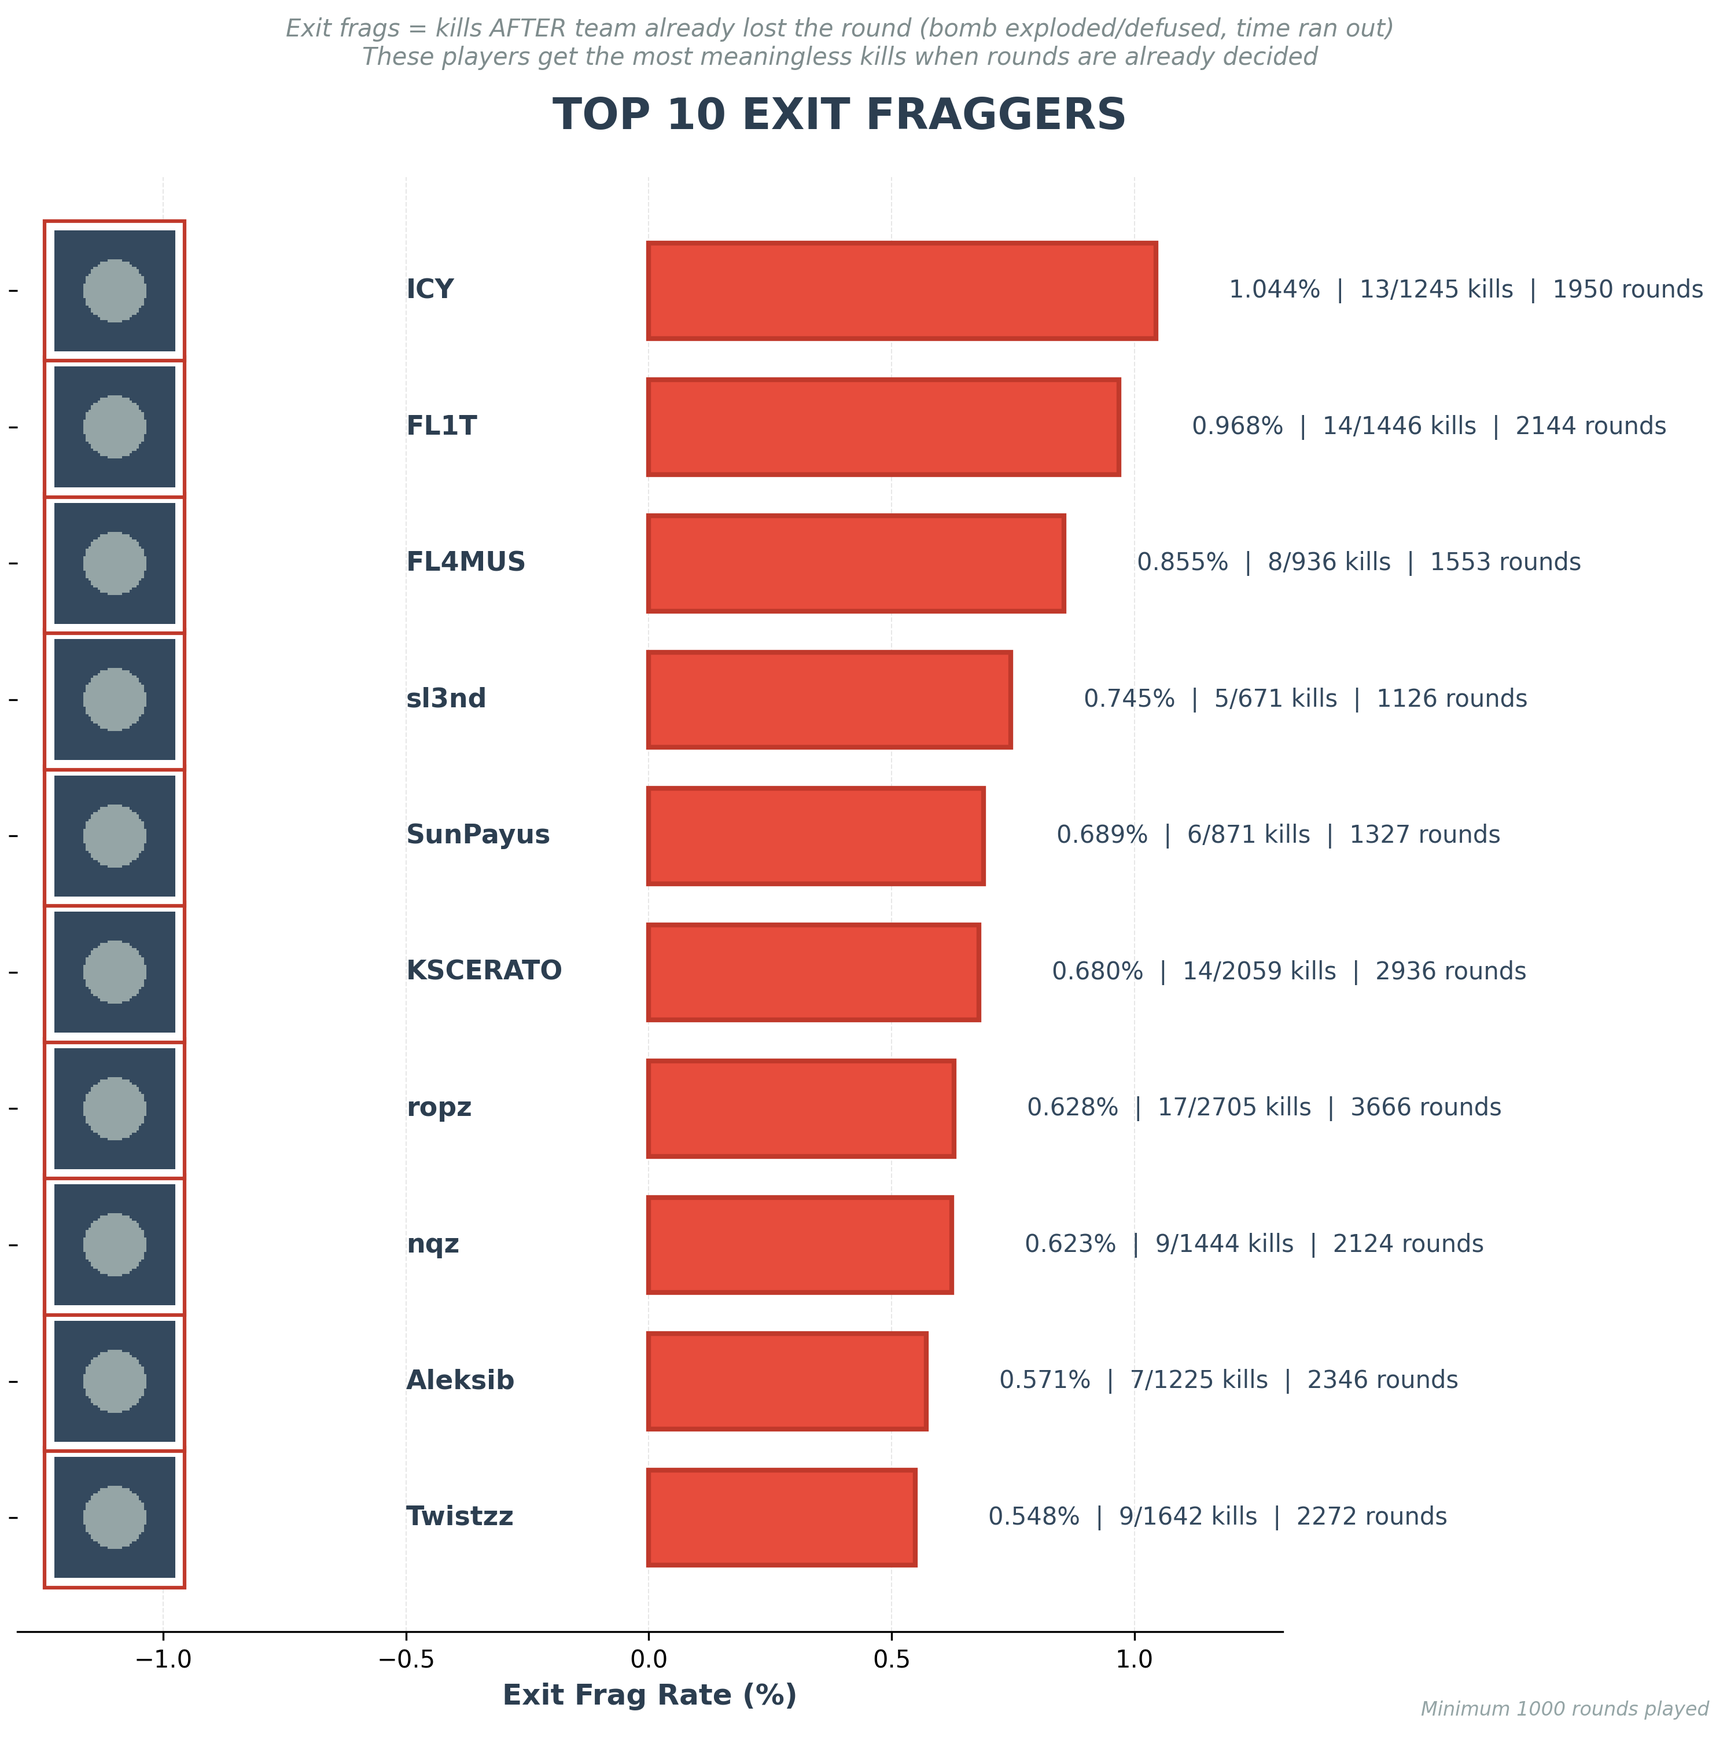
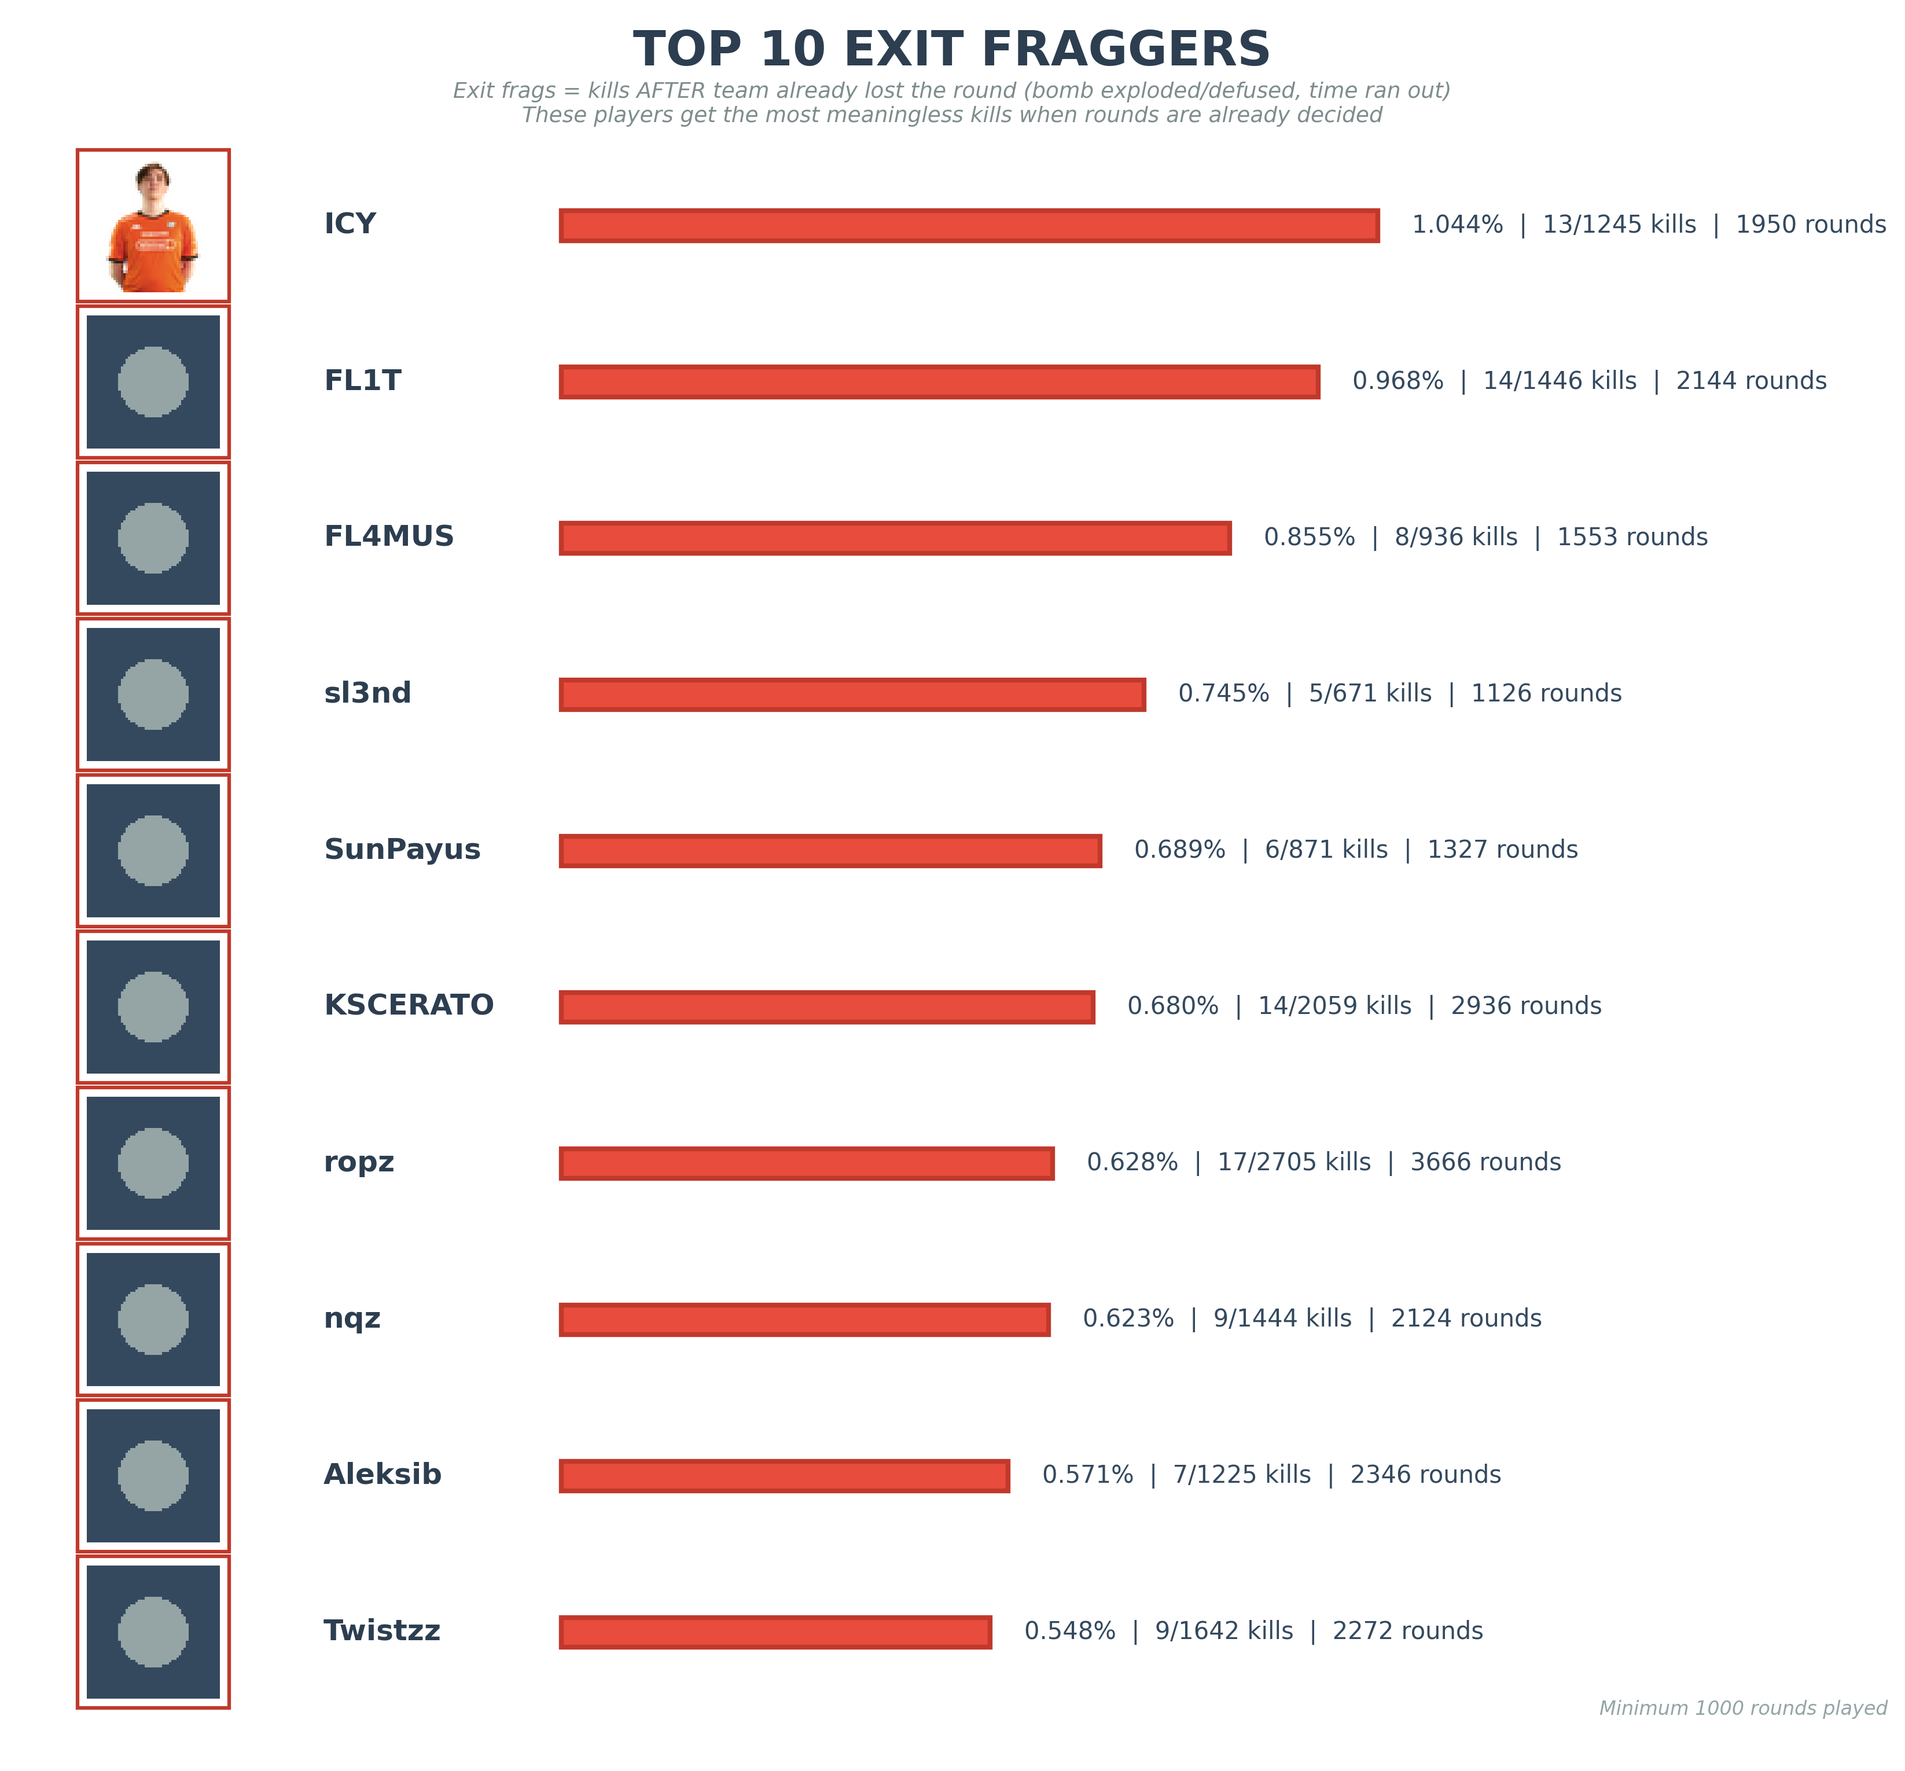
visualize update

diff --git a/exit_frag/exit_frag_visualize.py b/exit_frag/exit_frag_visualize.py
@@ -1,21 +1,57 @@
 import pandas as pd
 import matplotlib.pyplot as plt
-import matplotlib.patches as mpatches
 from matplotlib.offsetbox import OffsetImage, AnnotationBbox
-from PIL import Image, ImageDraw, ImageFont
+from PIL import Image, ImageDraw
 import numpy as np
 from pathlib import Path
 
 # ===== Configuration =====
-csv_file = "exit_frag/exit_frag_analysis.csv"  # Your exit frag CSV
-player_photos_dir = Path("player_photos")  # Directory containing player photos (name.png)
+csv_file = "exit_frag/exit_frag_analysis.csv"
+player_photos_dir = Path("player_photos")
 output_top10 = "exit_frag_merchants_top10.png"
 output_bottom10 = "exit_frag_cleanest_bottom10.png"
-MIN_ROUNDS = 1000  # Minimum rounds to be included
+MIN_ROUNDS = 1000
+
+# ===== ABSOLUTE POSITION CONTROLS - CHANGE THESE VALUES =====
+# Figure dimensions (pixels at 300 DPI)
+FIGURE_WIDTH_INCHES = 11
+FIGURE_HEIGHT_INCHES = 10
+
+# X-axis absolute positions (0-100 scale, like percentage of width)
+PHOTO_X = 8              # Photo left edge position
+NAME_X = 18              # Player name position
+BAR_START_X = 32         # Where bars start
+BAR_END_X = 80           # Where bars end (max length)
+STATS_X_OFFSET = 2       # Stats offset from bar end
+
+# Y-axis spacing
+Y_START = 12              # First player from top (%)
+Y_SPACING = 9            # Space between each player (%)
+
+# Element sizes
+PHOTO_SIZE = 55          # Photo size in pixels
+BAR_HEIGHT = 1.7         # Bar height (relative) - INCREASED
+PHOTO_BORDER = 1.5       # Photo border width
+BAR_BORDER = 2           # Bar border width
+
+# Font sizes
+NAME_FONT = 12
+STATS_FONT = 10
+TITLE_FONT = 20
+SUBTITLE_FONT = 9
+
+# Title positions (0-100 scale)
+TITLE_X = 55
+TITLE_Y = 98             # MOVED HIGHER (was 96)
+SUBTITLE_Y = 95          # MOVED HIGHER (was 93)
+
+# Colors
+RED_BAR = '#e74c3c'
+RED_BORDER = '#c0392b'
+GREEN_BAR = '#2ecc71'
+GREEN_BORDER = '#27ae60'
 
 # ===== Manual Adjustments =====
-# Format: "PlayerName": {"ExitFrags": +1, "TotalKills": -1, "MeaningfulKills": 0, "TotalRounds": +5}
-# Use this to manually adjust numbers if needed (+/- values)
 MANUAL_ADJUSTMENTS = {
     "ICY": {"ExitFrags": 0, "TotalKills": -16, "MeaningfulKills": 0, "TotalRounds": +108},
     "FL1T": {"ExitFrags": 0, "TotalKills": -20, "MeaningfulKills": 0, "TotalRounds": +108},
@@ -40,7 +76,6 @@ MANUAL_ADJUSTMENTS = {
 }
 
 def apply_manual_adjustments(df, adjustments):
-    """Apply manual adjustments to the dataframe"""
     df = df.copy()
     for player, adj in adjustments.items():
         if player in df["Player"].values:
@@ -53,186 +88,143 @@ def apply_manual_adjustments(df, adjustments):
                 df.loc[idx, "MeaningfulKills"] += adj["MeaningfulKills"]
             if "TotalRounds" in adj:
                 df.loc[idx, "TotalRounds"] += adj["TotalRounds"]
-            print(f"[ADJUSTED] {player}: ExitFrags={df.loc[idx, 'ExitFrags']}, "
-                  f"TotalKills={df.loc[idx, 'TotalKills']}, MeaningfulKills={df.loc[idx, 'MeaningfulKills']}, "
-                  f"TotalRounds={df.loc[idx, 'TotalRounds']}")
     return df
 
-# ===== Load data =====
+def create_placeholder_image(size=100):
+    img = Image.new('RGB', (size, size), color='#34495e')
+    draw = ImageDraw.Draw(img)
+    draw.ellipse([size//4, size//4, 3*size//4, 3*size//4], fill='#95a5a6')
+    return img
+
+def load_player_image(player_name, photo_dir, size=50):
+    photo_path = photo_dir / f"{player_name}.png"
+    img = None
+    if photo_path.exists():
+        try:
+            img = Image.open(photo_path)
+            if img.mode == 'RGBA':
+                img = img.convert('RGBA')
+            elif img.mode != 'RGB':
+                img = img.convert('RGB')
+        except Exception:
+            img = None
+    if img is None:
+        img = create_placeholder_image(size)
+    img = img.resize((size, size), Image.Resampling.LANCZOS)
+    return OffsetImage(img, zoom=1.0)
+
+def create_exit_frag_chart(data, title, subtitle, output_file, is_top=True):
+    """Create chart with ABSOLUTE positioning - no automatic adjustments"""
+    
+    fig, ax = plt.subplots(figsize=(FIGURE_WIDTH_INCHES, FIGURE_HEIGHT_INCHES))
+    
+    # Remove all axes
+    ax.set_xlim(0, 100)
+    ax.set_ylim(0, 100)
+    ax.axis('off')
+    
+    # Colors
+    bar_color = RED_BAR if is_top else GREEN_BAR
+    bar_edge = RED_BORDER if is_top else GREEN_BORDER
+    
+    # Keep original order (highest/lowest already at top from sorting)
+    # Do NOT reverse
+    
+    # Calculate exit rates
+    exit_rates = [(row["ExitFrags"] / row["TotalKills"]) * 100 for _, row in data.iterrows()]
+    max_rate = max(exit_rates)
+    
+    # Draw each player row
+    for idx, (i, row) in enumerate(data.iterrows()):
+        player_name = row["Player"]
+        exit_frags = int(row["ExitFrags"])
+        total_kills = int(row["TotalKills"])
+        total_rounds = int(row["TotalRounds"])
+        exit_rate = (exit_frags / total_kills) * 100
+        
+        # Calculate Y position (fixed spacing)
+        y_pos = 100 - Y_START - (idx * Y_SPACING)
+        
+        # 1. Add photo at FIXED X position
+        img = load_player_image(player_name, player_photos_dir, size=PHOTO_SIZE)
+        imagebox = AnnotationBbox(img, (PHOTO_X, y_pos), 
+                                 frameon=True, 
+                                 box_alignment=(0.5, 0.5),
+                                 bboxprops=dict(edgecolor=bar_edge, 
+                                               linewidth=PHOTO_BORDER, 
+                                               facecolor='white'))
+        ax.add_artist(imagebox)
+        
+        # 2. Add player name at FIXED X position
+        ax.text(NAME_X, y_pos, player_name, 
+               va='center', ha='left', 
+               fontsize=NAME_FONT, fontweight='bold',
+               color='#2c3e50', transform=ax.transData)
+        
+        # 3. Add bar - FIXED start, length based on rate (normalized to max)
+        bar_length = (exit_rate / max_rate) * (BAR_END_X - BAR_START_X)
+        bar_rect = plt.Rectangle((BAR_START_X, y_pos - BAR_HEIGHT/2), bar_length, BAR_HEIGHT,
+                                 facecolor=bar_color, edgecolor=bar_edge, 
+                                 linewidth=BAR_BORDER, transform=ax.transData)
+        ax.add_patch(bar_rect)
+        
+        # 4. Add stats at FIXED offset from bar end
+        stats_x = BAR_START_X + bar_length + STATS_X_OFFSET
+        stats_text = f"{exit_rate:.3f}%  |  {exit_frags}/{total_kills} kills  |  {total_rounds} rounds"
+        ax.text(stats_x, y_pos, stats_text,
+               va='center', ha='left',
+               fontsize=STATS_FONT, color='#34495e', transform=ax.transData)
+    
+    # 5. Add title at FIXED position
+    ax.text(TITLE_X, TITLE_Y, title,
+           ha='center', va='center',
+           fontsize=TITLE_FONT, fontweight='bold', color='#2c3e50',
+           transform=ax.transData)
+    
+    # 6. Add subtitle at FIXED position
+    ax.text(TITLE_X, SUBTITLE_Y, subtitle,
+           ha='center', va='center',
+           fontsize=SUBTITLE_FONT, style='italic', color='#7f8c8d',
+           transform=ax.transData)
+    
+    # 7. Add minimum rounds note
+    ax.text(110, 2, f'Minimum {MIN_ROUNDS} rounds played',
+           ha='right', va='bottom',
+           fontsize=8, style='italic', color='#95a5a6',
+           transform=ax.transData)
+    
+    plt.tight_layout(pad=0)
+    plt.savefig(output_file, format='png', dpi=300, bbox_inches='tight', facecolor='white')
+    print(f"Saved: {output_file}")
+    plt.close()
+
+# ===== Main execution =====
 df = pd.read_csv(csv_file)
-
-# Apply manual adjustments
 df = apply_manual_adjustments(df, MANUAL_ADJUSTMENTS)
-
-# Calculate precise exit rate for sorting
 df["PreciseExitRate"] = (df["ExitFrags"] / df["TotalKills"]) * 100
-
-# Filter players with enough rounds
 df_filtered = df[df["TotalRounds"] >= MIN_ROUNDS].copy()
 
 print(f"Total players: {len(df)}")
 print(f"Players with >={MIN_ROUNDS} rounds: {len(df_filtered)}")
 
 if len(df_filtered) < 10:
-    print(f"[ERROR] Not enough players with >={MIN_ROUNDS} rounds. Only {len(df_filtered)} players found.")
+    print(f"[ERROR] Not enough players")
     exit(1)
 
-# Sort and get top/bottom 10 based on PRECISE exit rate
 top10 = df_filtered.nlargest(10, "PreciseExitRate").reset_index(drop=True)
 bottom10 = df_filtered.nsmallest(10, "PreciseExitRate").reset_index(drop=True)
 
-print("\nTop 10 Exit Frag Merchants:")
-print(top10[["Player", "PreciseExitRate", "ExitFrags", "TotalKills", "TotalRounds"]])
-
-print("\nBottom 10 (Cleanest Players):")
-print(bottom10[["Player", "PreciseExitRate", "ExitFrags", "TotalKills", "TotalRounds"]])
-
-# ===== Helper function to create placeholder image =====
-def create_placeholder_image(size=100):
-    """Create a simple placeholder image"""
-    img = Image.new('RGB', (size, size), color='#34495e')
-    draw = ImageDraw.Draw(img)
-    # Draw a simple silhouette or question mark
-    draw.ellipse([size//4, size//4, 3*size//4, 3*size//4], fill='#95a5a6')
-    return img
-
-# ===== Helper function to load player photo =====
-def load_player_image(player_name, photo_dir, size=50):
-    """Load player photo, return OffsetImage or placeholder if not found"""
-    photo_path = photo_dir / f"{player_name}.png"
-    
-    img = None
-    if photo_path.exists():
-        try:
-            img = Image.open(photo_path)
-            # Convert to RGBA if PNG with transparency, otherwise RGB
-            if img.mode == 'RGBA':
-                img = img.convert('RGBA')
-            elif img.mode != 'RGB':
-                img = img.convert('RGB')
-        except Exception as e:
-            print(f"[ERROR] Failed to load image for {player_name}: {e}")
-            img = None
-    
-    if img is None:
-        print(f"[WARN] Photo not found for {player_name}, using placeholder")
-        img = create_placeholder_image(size)
-    
-    # Resize to square with high quality (LANCZOS provides best quality)
-    img = img.resize((size, size), Image.Resampling.LANCZOS)
-    return OffsetImage(img, zoom=1.0)
-
-# ===== Create visualization function =====
-def create_exit_frag_chart(data, title, subtitle, output_file, is_top=True):
-    """
-    Create horizontal bar chart with player photos
-    
-    Args:
-        data: DataFrame with player stats
-        title: Main title
-        subtitle: Subtitle explaining methodology
-        output_file: Output filename
-        is_top: True for top merchants (red), False for cleanest (green)
-    """
-    fig, ax = plt.subplots(figsize=(10, 10))  # Reduced width from 12 to 10
-    
-    # Colors
-    if is_top:
-        bar_color = '#e74c3c'  # Red for merchants
-        bar_edge = '#c0392b'
-    else:
-        bar_color = '#2ecc71'  # Green for clean players
-        bar_edge = '#27ae60'
-    
-    # Reverse order so highest/lowest is on top
-    data = data.iloc[::-1].reset_index(drop=True)
-    
-    y_positions = np.arange(len(data))
-    # Use precise exit rate for bar lengths
-    exit_rates = [(row["ExitFrags"] / row["TotalKills"]) * 100 for _, row in data.iterrows()]
-    
-    # Create horizontal bars
-    bars = ax.barh(y_positions, exit_rates, height=0.7, 
-                   color=bar_color, edgecolor=bar_edge, linewidth=2)
-    
-    # Add player photos on the left
-    for idx, (i, row) in enumerate(data.iterrows()):
-        player_name = row["Player"]
-        
-        # Load and add player photo (with placeholder fallback)
-        img = load_player_image(player_name, player_photos_dir, size=50)
-        # Position photo closer (reduced from -1.4 to -1.1)
-        imagebox = AnnotationBbox(img, (-1.1, idx), 
-                                 frameon=True, 
-                                 box_alignment=(0.5, 0.5),
-                                 bboxprops=dict(edgecolor=bar_edge, 
-                                               linewidth=1.5, 
-                                               facecolor='white'))
-        ax.add_artist(imagebox)
-        
-        # Add player name closer to photo (reduced from -0.7 to -0.5)
-        ax.text(-0.5, idx, player_name, 
-               va='center', ha='left', 
-               fontsize=11, fontweight='bold',
-               color='#2c3e50')
-        
-        # Add detailed stats on the bar (using potentially adjusted values)
-        exit_frags = int(row["ExitFrags"])
-        total_kills = int(row["TotalKills"])
-        total_rounds = int(row["TotalRounds"])
-        exit_rate = (exit_frags / total_kills) * 100
-        
-        # Stats text closer to the bar (reduced from 0.3 to 0.15)
-        stats_text = f"{exit_rate:.3f}%  |  {exit_frags}/{total_kills} kills  |  {total_rounds} rounds"
-        ax.text(exit_rate + 0.15, idx, stats_text,
-               va='center', ha='left',
-               fontsize=10, color='#34495e', fontweight='normal')
-    
-    # Styling
-    ax.set_yticks(y_positions)
-    ax.set_yticklabels([])  # Remove y-axis labels (we have player names)
-    ax.set_xlabel('Exit Frag Rate (%)', fontsize=12, fontweight='bold', color='#2c3e50')
-    ax.set_xlim(-1.3, max(exit_rates) * 1.25)  # Reduced left margin from -1.7 to -1.3
-    
-    # Title and subtitle - moved to the right (x position from 0.5 to 0.65)
-    ax.set_title(title, fontsize=18, fontweight='bold', pad=20, color='#2c3e50', x=0.65)
-    ax.text(0.65, 1.08, subtitle, 
-           transform=ax.transAxes,
-           fontsize=10, ha='center', style='italic', color='#7f8c8d',
-           wrap=True)
-    
-    # Grid
-    ax.grid(axis='x', alpha=0.3, linestyle='--', linewidth=0.5)
-    ax.set_axisbelow(True)
-    
-    # Remove spines
-    ax.spines['top'].set_visible(False)
-    ax.spines['right'].set_visible(False)
-    ax.spines['left'].set_visible(False)
-    
-    # Add a note about minimum rounds at bottom
-    fig.text(0.99, 0.01, f'Minimum {MIN_ROUNDS} rounds played', 
-            ha='right', va='bottom', fontsize=8, style='italic', color='#95a5a6')
-    
-    plt.tight_layout()
-    plt.savefig(output_file, format='png', dpi=300, bbox_inches='tight', facecolor='white')
-    print(f"Saved: {output_file}")
-    plt.close()
-
-# ===== Generate visualizations =====
-
-# Top 10 Exit Frag Merchants
+# Generate visualizations
 top_title = "TOP 10 EXIT FRAGGERS"
 top_subtitle = ("Exit frags = kills AFTER team already lost the round (bomb exploded/defused, time ran out)\n"
                 "These players get the most meaningless kills when rounds are already decided")
 create_exit_frag_chart(top10, top_title, top_subtitle, output_top10, is_top=True)
 
-# Bottom 10 Cleanest Players
-bottom_title = "TOP 10 LEAST EXIT FRAGGERS"
+bottom_title = "TOP 10 NON-EXIT FRAGGERS"
 bottom_subtitle = ("Exit frags = kills AFTER team already lost the round (bomb exploded/defused, time ran out)\n"
                    "These players have the lowest rate of meaningless kills - every kill counts")
 create_exit_frag_chart(bottom10, bottom_title, bottom_subtitle, output_bottom10, is_top=False)
 
-print("\n✅ Visualizations complete!")
-print(f"📊 Top 10 merchants: {output_top10}")
-print(f"📊 Bottom 10 cleanest: {output_bottom10}")
+print("\nVisualizations complete!")
+print(f"Top 10 merchants: {output_top10}")
+print(f"Bottom 10 cleanest: {output_bottom10}")
